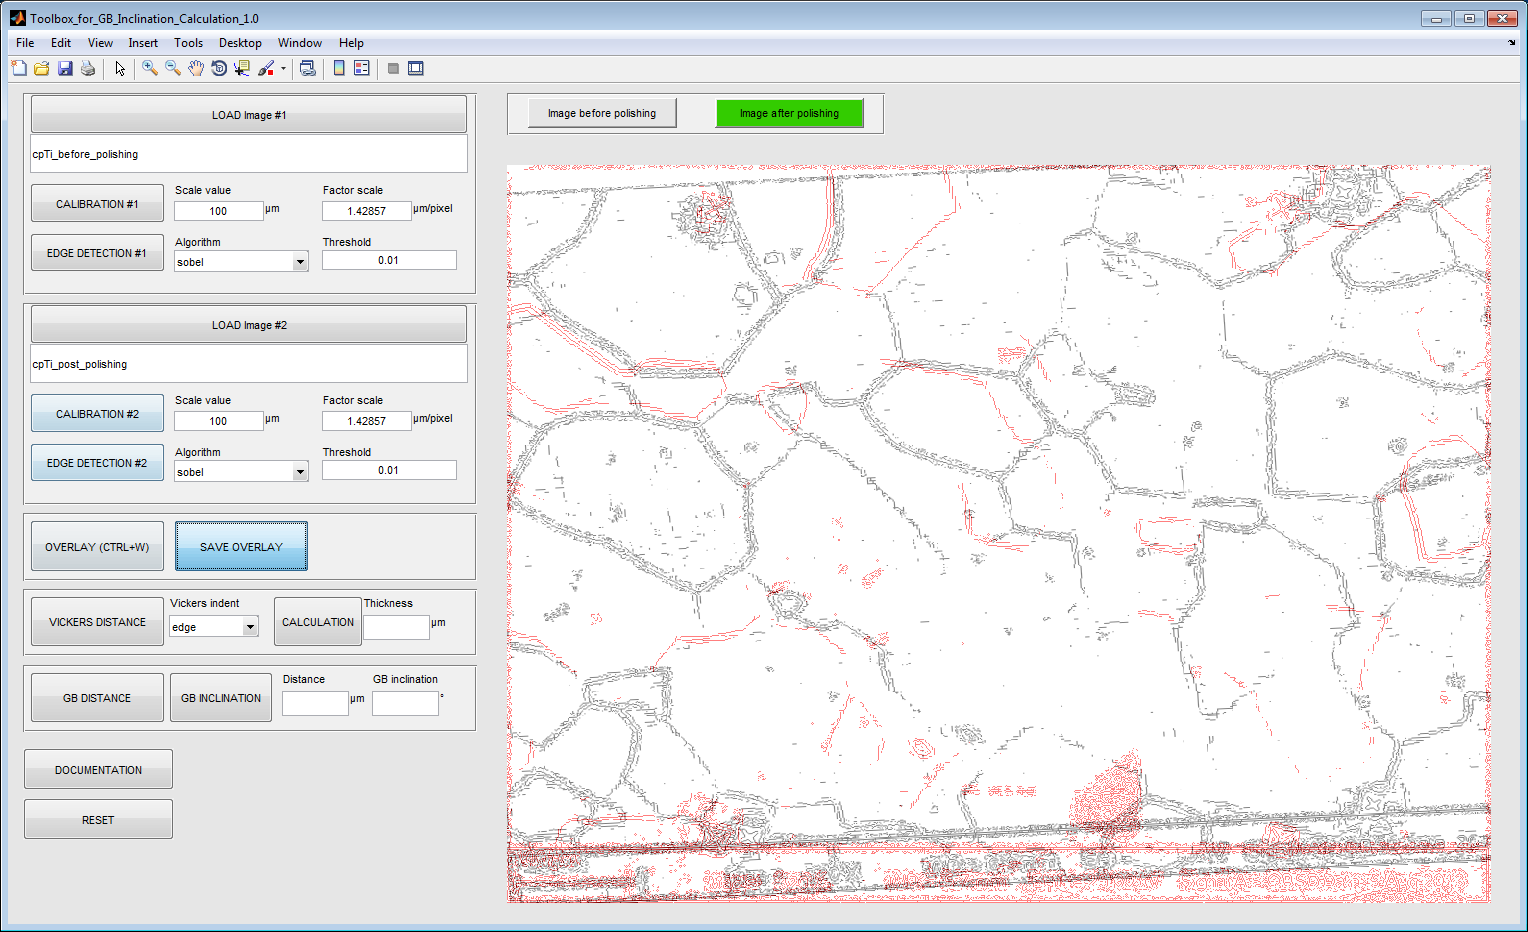
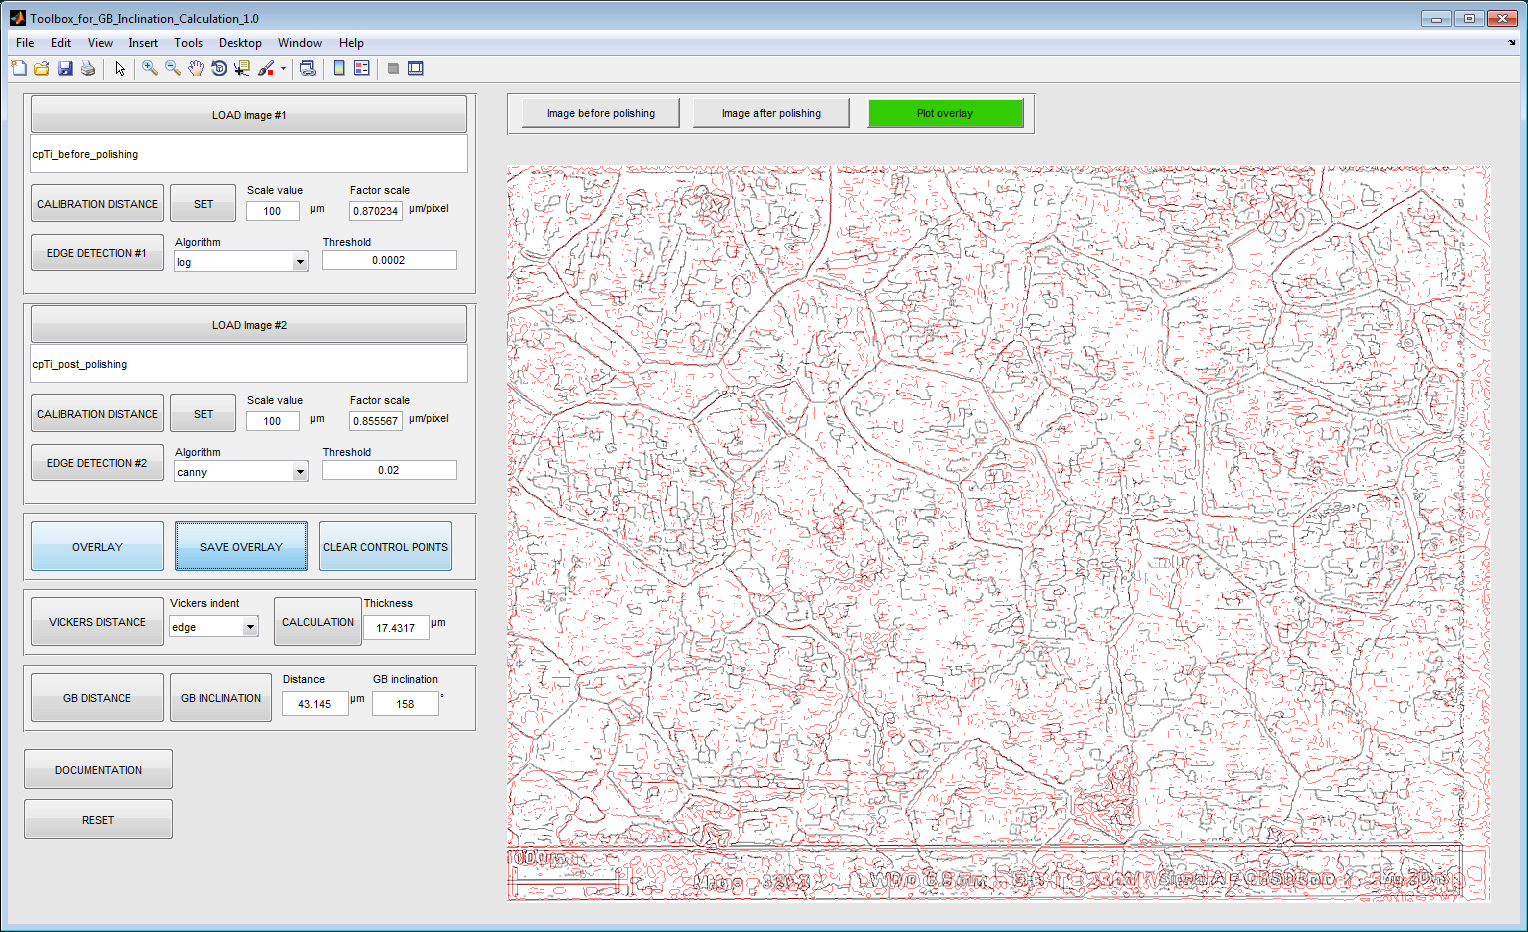
update the gb_inc toolbox and add function imdistline to scale a picture

diff --git a/gui_gbinc/A_gui_gbinc.m b/gui_gbinc/A_gui_gbinc.m
@@ -97,12 +97,12 @@ gui.handles.gb_inclination = gui_gbinc_buttons_gb_inclination(x0, hu, wu);
 
 %% Buttons to switch pictures plot
 gui.handles.switch_plot = uibuttongroup('visible','on',...
-    'Position',[x0*33 hu*9.4 wu*2.5 x0*5]);
+    'Position',[x0*33 hu*9.4 wu*3.5 x0*5]);
 
 pb1 = uicontrol('Parent', gui.handles.switch_plot ,...
     'Units','normalized',...
     'Style', 'pushbutton',...
-    'Position', [x0*5 hu wu*4 x0*80],...
+    'Position', [x0*2.5 hu wu*3 x0*80],...
     'String', 'Image before polishing',...
     'BackgroundColor', [0.2 0.8 0],......
     'Callback','gui_gbinc_switch_plot(1)');
@@ -110,12 +110,21 @@ pb1 = uicontrol('Parent', gui.handles.switch_plot ,...
 pb2 = uicontrol('Parent', gui.handles.switch_plot,...
     'Units','normalized',...
     'Style', 'pushbutton',...
-    'Position', [x0*55 hu wu*4 x0*80],...
+    'Position', [x0*35 hu wu*3 x0*80],...
     'String', 'Image after polishing',...
     'Callback','gui_gbinc_switch_plot(2)');
 
+pb3 = uicontrol('Parent', gui.handles.switch_plot,...
+    'Units','normalized',...
+    'Style', 'pushbutton',...
+    'Position', [x0*68.125 hu wu*3 x0*80],...
+    'String', 'Plot overlay',...
+    'Callback','gui_gbinc_switch_plot(3)',...
+    'Visible', 'off');
+
 gui.handles.switch_plot.pb1 = pb1;
 gui.handles.switch_plot.pb2 = pb2;
+gui.handles.switch_plot.pb3 = pb3;
 
 %% Others buttons
 gui.handles.documentation = uicontrol('Parent', parent,...
@@ -123,7 +132,7 @@ gui.handles.documentation = uicontrol('Parent', parent,...
     'Style', 'pushbutton',...
     'Position', [x0 hu*1.6 wu x0*5],...
     'String', 'DOCUMENTATION',...
-    'Callback', 'web(''https://github.com/stabix/gbinc/blob/master/README.txt'',''-browser'')');
+    'Callback', 'web(''https://github.com/stabix/stabix/blob/master/gui_gbinc/README.rst'',''-browser'')');
 
 gui.handles.reset = uicontrol('Parent', parent,...
     'Units','normalized',...

diff --git a/gui_gbinc/gui_gbinc_pictures_overlay.m b/gui_gbinc/gui_gbinc_pictures_overlay.m
@@ -4,14 +4,15 @@ function gui_gbinc_pictures_overlay
 
 % authors: d.mercier@mpie.de / c.zambaldi@mpie.de
 
+% See: http://www.mathworks.fr/help/images/ref/cpselect.html
+% See: http://www.mathworks.fr/help/images/ref/cp2tform.html
+
 gui = guidata(gcf);
 
 calibration = 1;
 edge_detection = 1;
 
 %% Check of the presence of the 2 pictures
-
-
 if ~gui.flag.image1 || ~gui.flag.image2
     warning('Please, load image first !'); beep; commandwindow;
 end
@@ -71,19 +72,22 @@ if calibration && edge_detection
     else
         warning('Please, select correctly new control points...'); beep; commandwindow;
     end
+    guidata(gcf, gui);
     
     %% Overlay the 2 figures
     try
-        h_reg = imshow(regd); hold on;
-        h_base = imshow(ind2rgb(gray2ind(fig_base,3),[1,0,0;1,0,0;1,1,1]));
-        set(h_base, 'AlphaData', 0.5);
+        gui_gbinc_plot_overlay(regd, fig_base);
+        gui.config_map.regd = regd;
+        gui.config_map.fig_base = fig_base;
+        guidata(gcf, gui);
+        gui_gbinc_switch_plot(3);
+        set(gui.handles.switch_plot.pb3, 'Visible', 'on');
+        set(gui.handles.switch_plot.pb3, 'BackgroundColor', [0.2 0.8 0]);
+        set(gui.handles.overlay.delete_control_points, 'Visible', 'on')
+        gui.flag.overlay = 1;
     catch
         gui_gbinc_clear_control_points;
     end
-    
-    %% Overlay done !
-    gui.flag.overlay = 1;
-    set(gui.handles.overlay.delete_control_points, 'Visible', 'on')
 end
 
 guidata(gcf, gui);

diff --git a/gui_gbinc/gui_gbinc_scale_calibration.m b/gui_gbinc/gui_gbinc_scale_calibration.m
@@ -5,33 +5,7 @@ function gui_gbinc_scale_calibration(image_type)
 
 % authors: d.mercier@mpie.de / c.zambaldi@mpie.de
 
-parent = gcf;
-
-gui = guidata(parent);
-
-if image_type == 1
-    pathnameimage = gui.config_map.pathname_image_before_polishing;
-    filenameimage = gui.config_map.filename_image_before_polishing;
-    set(gui.handles.switch_plot.pb1, 'BackgroundColor', [0.2 0.8 0]);
-    set(gui.handles.switch_plot.pb2, 'BackgroundColor', [0.9 0.9 0.9]);
-elseif image_type == 2
-    pathnameimage = gui.config_map.pathname_image_after_polishing;
-    filenameimage = gui.config_map.filename_image_after_polishing;
-    set(gui.handles.switch_plot.pb1, 'BackgroundColor', [0.9 0.9 0.9]);
-    set(gui.handles.switch_plot.pb2, 'BackgroundColor', [0.2 0.8 0]);
-end
-
-gui_gbinc_load_image(pathnameimage, filenameimage);
-
-gui.config_map.h_dist = imdistline(gca,[10 80],[750 750]);
-api    = iptgetapi(gui.config_map.h_dist);
-fcn    = makeConstrainToRectFcn('imline',...
-    get(gca, 'XLim'),...
-    get(gca, 'YLim'));
-
-setLabelVisible(gui.config_map.h_dist, false);
-
-api.setDragConstraintFcn(fcn);
+gui = guidata(gcf);
 
 %% Calculation of the calibration factor
 if image_type == 1
@@ -60,6 +34,6 @@ elseif image_type == 2
     end
 end
 
-guidata(parent, gui);
+guidata(gcf, gui);
 
 end

diff --git a/gui_gbinc/gui_gbinc_switch_plot.m b/gui_gbinc/gui_gbinc_switch_plot.m
@@ -10,15 +10,24 @@ gui = guidata(gcf);
 if image2plot == 1
     pathname = gui.config_map.pathname_image_before_polishing;
     filename = gui.config_map.filename_image_before_polishing;
+    gui_gbinc_load_image(pathname, filename);
     set(gui.handles.switch_plot.pb1, 'BackgroundColor', [0.2 0.8 0]);
     set(gui.handles.switch_plot.pb2, 'BackgroundColor', [0.9 0.9 0.9]);
+    set(gui.handles.switch_plot.pb3, 'BackgroundColor', [0.9 0.9 0.9]);
 elseif image2plot == 2
     pathname = gui.config_map.pathname_image_after_polishing;
     filename = gui.config_map.filename_image_after_polishing;
+    gui_gbinc_load_image(pathname, filename);
     set(gui.handles.switch_plot.pb1, 'BackgroundColor', [0.9 0.9 0.9]);
     set(gui.handles.switch_plot.pb2, 'BackgroundColor', [0.2 0.8 0]);
+    set(gui.handles.switch_plot.pb3, 'BackgroundColor', [0.9 0.9 0.9]);
+elseif image2plot == 3
+    gui_gbinc_plot_overlay(gui.config_map.regd, gui.config_map.fig_base);
+    set(gui.handles.switch_plot.pb1, 'BackgroundColor', [0.9 0.9 0.9]);
+    set(gui.handles.switch_plot.pb2, 'BackgroundColor', [0.9 0.9 0.9]);
+    set(gui.handles.switch_plot.pb3, 'BackgroundColor', [0.2 0.8 0]);
 end
 
-gui_gbinc_load_image(pathname, filename);
+guidata(gcf, gui);
 
 end

diff --git a/gui_gbinc/gui_gbinc_vickers_distance.m b/gui_gbinc/gui_gbinc_vickers_distance.m
@@ -31,18 +31,7 @@ end
 %% Calculations
 if calibration && edge_detection && overlay
     zoom out;
-    
-    gui.config_map.h_dist = imdistline(gca, [350 400], [150 150]);
-    api = iptgetapi(gui.config_map.h_dist);
-    
-    fcn = makeConstrainToRectFcn('imline',...
-        get(gca, 'XLim'),...
-        get(gca, 'YLim'));
-    
-    setLabelVisible(gui.config_map.h_dist, false);
-    setColor(gui.config_map.h_dist, 'green');
-    
-    api.setDragConstraintFcn(fcn);
+    gui.config_map.h_dist = set_imdistline([350 400],[150 150], 'green');
 end
 guidata(gcf, gui);
 

diff --git a/gui_ebsd_map/A_gui_plotmap.m b/gui_ebsd_map/A_gui_plotmap.m
@@ -362,7 +362,7 @@ gui.handles.pmparam2plot4GB = uicontrol('Parent', gui.handles.TSLinterfWindow,..
     'Style', 'popupmenu',...
     'Position', [0.02 0.22 0.12 0.02],...
     'BackgroundColor', [0.9 0.9 0.9],...
-    'Value', 1,...
+    'Value', 2,...
     'String', {'None';'m'' (highest values)';'m'' (lowest values)';...
     'm'' with slips with highest Schmid factors';'m'' with slips with highest resolved shear stress';...
     'Max-10% of highest values of m''';'Min+10% of lowest values of m''';...

diff --git a/gui_gbinc/gui_gbinc_gb_distance.m b/gui_gbinc/gui_gbinc_gb_distance.m
@@ -13,14 +13,7 @@ end
 
 zoom out;
 
-gui.config_map.h_dist = imdistline(gca, [450 500], [300 300]);
-api = iptgetapi(gui.config_map.h_dist);
-fcn = makeConstrainToRectFcn('imline', ...
-    get(gca, 'XLim'),...
-    get(gca, 'YLim'));
-
-setLabelVisible(gui.config_map.h_dist, false);
-api.setDragConstraintFcn(fcn);
+gui.config_map.h_dist = set_imdistline([450 500],[300 300], 'blue');
 
 guidata(gcf, gui);
 

diff --git a/gui_gbinc/gui_gbinc_buttons_overlay.m b/gui_gbinc/gui_gbinc_buttons_overlay.m
@@ -15,7 +15,7 @@ handles.main = uicontrol('Parent', parent,...
     'Units', 'normalized',...
     'Style', 'pushbutton',...
     'Position', [x0 hu wu*3 x0*80],...
-    'String', 'OVERLAY (CTRL+W)',...
+    'String', 'OVERLAY',...
     'Callback', 'gui_gbinc_pictures_overlay');
 
 handles.save = uicontrol('Parent', parent,...
